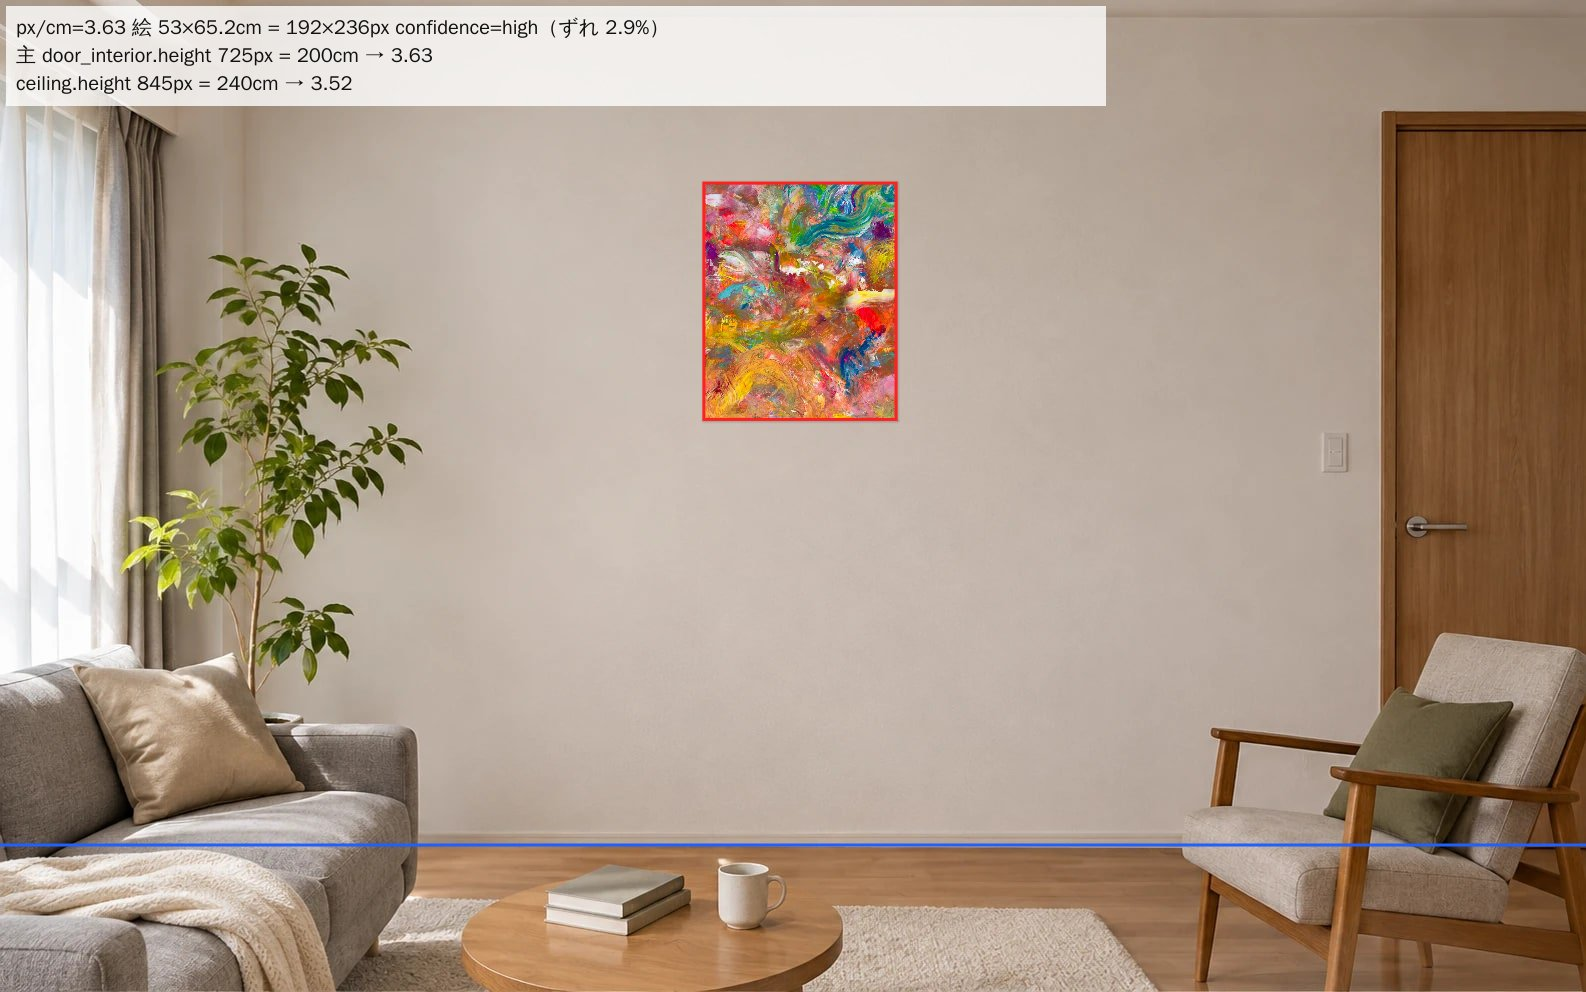
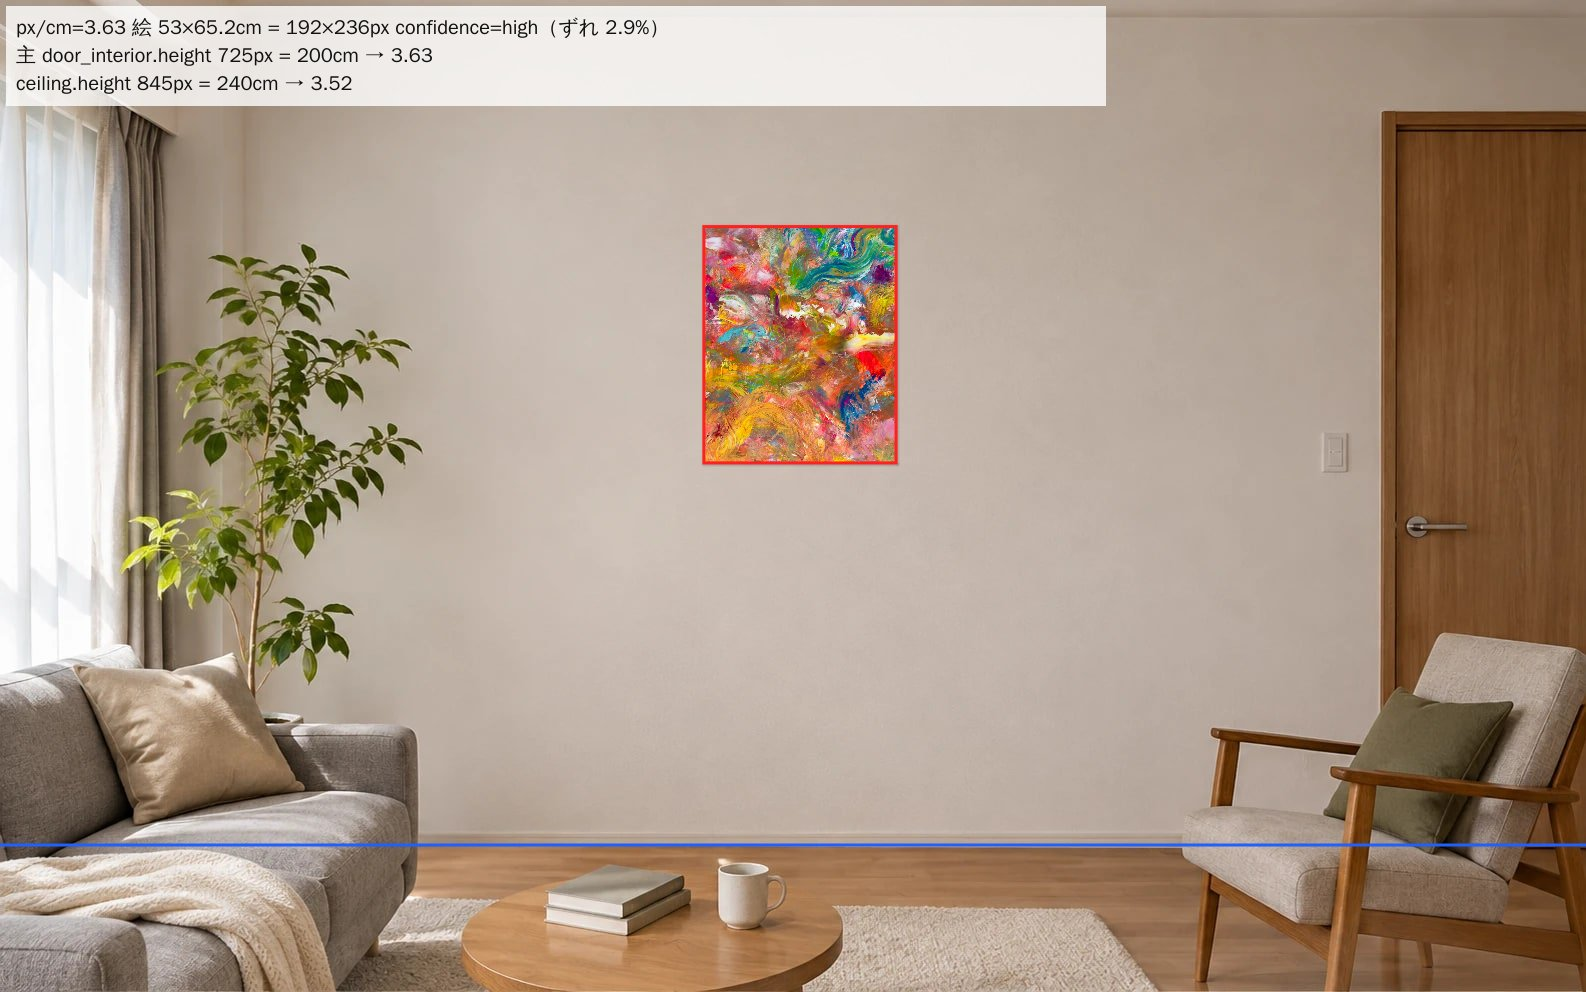
日本の住宅での飾る場所と高さを調査（docs/PLACEMENT.md）。掛ける高さを 145 / 138 / 家具の上 +20cm に、ドアの規格を確認、飾る場所の実例プロンプトを追加
Claude-Session: https://claude.ai/code/session_01XUan4pssoFYGDFEPeyow14

Changed region(s): [[0.4325, 0.1562, 0.587, 0.4688]]

diff --git a/scripts/generate/rooms.js b/scripts/generate/rooms.js
@@ -81,7 +81,9 @@ export function paintingRectFromScale(def, sizeCm, imageWidthPx) {
   const pxPerCm = def.scale.px_per_cm * k;
   const w = sizeCm[0] * pxPerCm, h = sizeCm[1] * pxPerCm;
   const cx = def.hang.x_px * k;
-  const cy = def.hang.floor_y_px * k - def.hang.center_from_floor_cm * pxPerCm;
+  // 掛ける高さ：中心（立って見る壁 145cm など）か、下端（家具の上端 + 20cm）のどちらかで指定
+  const centerCm = def.hang.center_from_floor_cm ?? (def.hang.bottom_from_floor_cm + sizeCm[1] / 2);
+  const cy = def.hang.floor_y_px * k - centerCm * pxPerCm;
   const x0 = cx - w / 2, x1 = cx + w / 2, y0 = cy - h / 2, y1 = cy + h / 2;
   return [[x0, y0], [x1, y0], [x1, y1], [x0, y1]];
 }
@@ -173,7 +175,7 @@ export function compareSentence({ item, dim, ratio, cm }, { withCm = false, appr
 }
 
 // 部屋の文章：比較の一文、2 つ目の比較、部屋の説明、注記（ja / en）
-export function roomTexts({ references, table, sizeCm, confidence, wallWidthCm, centerFromFloorCm }) {
+export function roomTexts({ references, table, sizeCm, confidence, wallWidthCm, centerFromFloorCm, aboveFurniture = false }) {
   const seen = new Set();
   const cands = [];
   for (const r of [...references].sort((a, b) => rankOf(a.ref.split('.')[0]) - rankOf(b.ref.split('.')[0]))) {
@@ -190,8 +192,12 @@ export function roomTexts({ references, table, sizeCm, confidence, wallWidthCm, 
   const hc = Math.round(centerFromFloorCm / 5) * 5;
   const seated = centerFromFloorCm < 140;
   const about = {
-    ja: `壁の幅は約 ${m} m。${seated ? '座ったときの目の高さ' : '目の高さ'}（床から約 ${hc} cm）に掛けています。`,
-    en: `The wall is about ${m} m wide. The painting hangs at ${seated ? 'seated eye level' : 'eye level'} (about ${hc} cm from the floor).`,
+    ja: aboveFurniture
+      ? `壁の幅は約 ${m} m。家具の上端から 20 cm ほど空けて掛けています（絵の中心は床から約 ${hc} cm）。`
+      : `壁の幅は約 ${m} m。${seated ? '座ったときの目の高さ' : '目の高さ'}（床から約 ${hc} cm）に掛けています。`,
+    en: aboveFurniture
+      ? `The wall is about ${m} m wide. The painting hangs about 20 cm above the furniture (center about ${hc} cm from the floor).`
+      : `The wall is about ${m} m wide. The painting hangs at ${seated ? 'seated eye level' : 'eye level'} (about ${hc} cm from the floor).`,
   };
   const note = {
     ja: '部屋は AI で作ったイメージで、寸法はだいたいこのくらい、という目安です。絵は実物の写真です。' + (low ? 'この部屋は縮尺の手がかりが不確かなので、特に大まかな目安です。' : ''),
@@ -283,7 +289,7 @@ export async function compositeRooms({ root, work, paintingPath, outDir }) {
 
     // 顧客向けの文章（ja / en。他の言語は index.js で翻訳キャッシュから）
     const texts = def.references?.length
-      ? roomTexts({ references: def.references, table, sizeCm: work.size_cm, confidence: sc.confidence, wallWidthCm, centerFromFloorCm: def.hang.center_from_floor_cm })
+      ? roomTexts({ references: def.references, table, sizeCm: work.size_cm, confidence: sc.confidence, wallWidthCm, centerFromFloorCm: def.hang.center_from_floor_cm ?? Math.round(def.hang.bottom_from_floor_cm + work.size_cm[1] / 2), aboveFurniture: def.hang.bottom_from_floor_cm != null })
       : { compare: null, compare2: null, about: null, note: null, primary_ref: null };
 
     results.push({

diff --git a/docs/PLACEMENT.md b/docs/PLACEMENT.md
@@ -1,0 +1,59 @@
+# 絵はどこに飾られるか（日本の住宅、調べたこと）V0
+
+2026-11-04、作家の指示「絵を買った人がどこに置くかをちゃんと考える。日本と仮定する」で調べたもの。部屋の画像の場面と、掛ける高さの根拠にする。
+
+## 1. 建具と部屋の寸法（縮尺の基準）
+
+| 物 | 一般的な寸法 | 根拠 |
+| --- | --- | --- |
+| 室内ドア（標準） | 枠の高さ 2,023 mm、扉本体 1,983 mm。「一般的なドアは高さ 2 m ほど」 | LIXIL ラシッサ S の寸法表（[販売店の掲載](https://item.rakuten.co.jp/kenkuru-shop/lssshd-001/)、[TA の一覧](https://www.rakuten.ne.jp/gold/auc-dream-diy/size_table/ta/ta-door-dsth_1.html)）、[LIXIL のハイドア解説](https://www.lixil.co.jp/lineup/livingroom_bedroom/s/livingdeli/living/6974/) |
+| 室内ドア（ハイドア） | 2,400 mm（天井まで） | [LIXIL ラフィス](https://www.lixil.co.jp/lineup/livingroom_bedroom/raffis/variation/) |
+| 室内ドア（古い住宅） | 1,800〜1,900 mm | オーダー範囲が H1740〜2425（[販売店](https://www.dreamotasuke.co.jp/c/lasissa/lasissa-c2/ls01-c2/ls01a-c2/ls01oak-c2/ls01ak-lga-order)）。古い物件に多い |
+| 天井高（マンション） | 2,400〜2,500 mm が平均。中古は 2,300 もある | [東急リバブル](https://www.livable.co.jp/l-note/?p=34419)、[ノムコム](https://www.nomu.com/mansion/library/trend/ai/ai27.html) |
+| 天井高（戸建て） | 2,400 mm が標準、2,600 も | 掲示板の体験談（[e-mansion](https://www.e-mansion.co.jp/bbs/thread/595074/)） |
+
+結論：**室内ドア 200 cm は、2000 年代以降の住宅では妥当**（枠で 202 cm）。古い住宅なら 180〜190 cm。部屋の画像は新しめの内装なので 200 cm を基準にする。`rooms/REFERENCES.json` は 200 のまま、`door_interior_old`（185 cm）を足して古い内装の部屋で使えるようにする。
+
+## 2. 掛ける高さ（日本の目安）
+
+- **絵の中心を床から 145 cm** が日本で広く言われる目安（「145 の法則」）。立ったときの目線の高さ。記事により 145〜150、145〜155 とも（[Re:CENO](https://www.receno.com/feature/art/decorate.php)、[trill](https://trilltrill.jp/articles/4700914)、[kajikissa](https://kajikissa.com/art/)）
+- **座って見る場所**（ソファの前、食卓、寝室）は少し低く、**中心 135〜140 cm**（[poppy quest](https://poppy-quest.com/2026/07/03/office-art-hang-guide/)）
+- **家具の上に掛けるとき**は、家具の上端から **15〜25 cm** 空ける（こぶし 1〜2 個）（[Re:CENO](https://www.receno.com/feature/art/decorate.php)）
+- **リビングの壁**では、絵の幅は壁幅の 7〜8 割に収まるのが目安。余白が大事（[izutsuya](https://izutsuya.art/)）
+
+→ 変更：掛ける高さの既定を 150 → **145 cm**。座って見る部屋（ソファの前、寝室、食卓）は **138 cm**。机や棚の上は「家具の上端 + 20 cm が絵の下端」で決める。
+
+## 3. どこに飾るか（日本の住宅で実際に多い場所）
+
+購入者の統計は見つからなかった（画廊や販売店のガイドが中心）。ガイドに共通する場所と、向く大きさ：
+
+| 場所 | 誰が、いつ見るか | 向く大きさ | 備考 |
+| --- | --- | --- | --- |
+| **玄関**（靴箱の上、正面の壁） | 帰宅時、来客の出迎え。立って、短く | 小〜中（F0〜F8、長辺 18〜45 cm） | 「出迎えの場、小〜中の明るい作品」（[from-artist](https://from-artist.com/en/blogs/)）。玄関は日本の住宅で最も「絵を飾る場所」として挙がる |
+| **リビングのソファの上の壁** | 家族と来客。座って、長く | 中〜大（F8〜F30、長辺 45〜90 cm） | ソファの幅との釣り合い。「壁幅の 7〜8 割まで」 |
+| **サイドボード・テレビ台の上** | 立っても座っても | 小〜中 | 家具の上端から 15〜25 cm 空ける |
+| **寝室（ベッドの横、ヘッドボードの上）** | ひとり。寝る前、起きたとき | 小〜中（F3〜F10） | 落ち着いた色。横になって見るので低め |
+| **廊下の突き当たり、階段** | 通りすがり。立って | 小（F0〜F6）を 1〜3 点 | 細長い壁。小品の定位置 |
+| **ダイニングの壁** | 食事のとき。座って | 小〜中 | 中心 135〜140 |
+| **書斎・ワークスペースの机の上** | ひとり。座って | 小（F0〜F4） | 机の上端 + 20 cm |
+| **床の間**（和室） | 来客 | 小〜中、掛け軸の代わり | 和室がある家では今も現役 |
+| **一人暮らしのワンルーム** | ひとり。机の上、ベッド脇、棚の上、玄関 | 小（F0〜F4） | 壁が少なく、家具の上が主な場所 |
+
+多くの購入者は「どこに飾るかを決めてから買う」（[いつき美術画廊](https://itsukiart.com/column/7/)）。だから「部屋で見る」は**買う前に、自分の家のその場所を思い浮かべる**ための道具。場所の名前（玄関、ソファの上、ベッド脇）で見せるのが正しい。
+
+## 4. 部屋の画像の場面を、飾る場所に合わせて組み直す
+
+今ある画像（リビング 4、玄関 1、一人暮らし 5）は「空いた壁」で、実際の飾る場所に近いのは「ソファの向かいの壁」「机の上」「ベッド脇」。足りないのは、日本で最も多い **玄関の靴箱の上**、**ソファの上の壁（座って見る）**、**サイドボードの上**、**廊下の突き当たり**、**床の間**。プロンプトを `rooms/PROMPTS.md` の「飾る場所の実例」に追加する。
+
+作品の大きさで場面を選ぶ：
+
+| 作品 | 広い家 | 一人暮らし |
+| --- | --- | --- |
+| F15（53 × 65）以上 | ソファの上の壁、ダイニングの壁 | 机の上、ベッド脇（存在感が出る） |
+| F4〜F10 | 玄関の靴箱の上、サイドボードの上、寝室 | 机の上、棚の上 |
+| F0〜F3（手のひら大） | 廊下、玄関の棚、床の間 | 棚の上、キッチン、玄関 |
+
+## 5. 縮尺と高さに反映すること
+
+- `hang.center_from_floor_cm`：立って見る壁 145、座って見る場所 138、家具の上は「家具の上端 + 20 cm = 絵の下端」から中心を計算（`hang.above_furniture_top_cm` を足し、`generate` が中心を計算）
+- `rooms/REFERENCES.json`：`door_interior` 200（枠 202）、`door_interior_old` 185、`ceiling` 240、`ceiling_old` 230、`sofa_2seat` 高さ 80 / 幅 160、`shoe_cabinet` 高さ 90、`sideboard` 高さ 80、`dining_table` 高さ 72、`bed_single` 幅 100 / マットレス上端 50、`headboard` 高さ 90

diff --git a/rooms/PROMPTS.md b/rooms/PROMPTS.md
@@ -40,6 +40,22 @@ A blank, empty wall with clear space for one framed painting about 65 cm tall an
 
 `rooms/<name>.json` の `suits_cm` を `[15, 45]` にしておくと、小さな作品のときだけ自動で使われる。
 
+## 飾る場所の実例（日本の住宅で実際に絵が掛かる場所。`docs/PLACEMENT.md` 3 節）
+
+これまでの画像は「空いた壁」。次は「絵が実際に掛かる場所」を撮る。家具が壁に接していて、その上に絵を置ける構図。カメラは正面、目の高さ。
+
+| # | name | 場所 | 向く作品 | プロンプト（英語） |
+| --- | --- | --- | --- | --- |
+| 16 | entrance-shoe-cabinet | 玄関の靴箱の上 | F0〜F8 | `The entrance of a Japanese apartment. A low white shoe cabinet (about 90 cm tall) against a plain wall, a small plant and a tray of keys on top, tiled floor, the front door at the side. Camera straight-on, eye level. Empty wall above the cabinet for a small painting.` + 共通 |
+| 17 | living-sofa-wall | ソファの上の壁 | F8〜F30 | `A living room with a grey three-seat sofa (about 180 cm wide) against a plain white wall, a floor lamp, a wooden coffee table. Camera straight-on from across the room, eye level. Empty wall above the sofa for a painting.` + 共通 |
+| 18 | living-sideboard | サイドボードの上 | F3〜F10 | `A living room wall with a low wooden sideboard (about 80 cm tall, 160 cm wide), a vase and a few books on top, plain wall above. Camera straight-on, eye level. Empty wall above the sideboard for a painting.` + 共通 |
+| 19 | hallway-end | 廊下の突き当たり | F0〜F6 | `A narrow hallway in a Japanese apartment, wooden floor, doors on the left, a plain wall at the end lit by a small ceiling light. Camera straight down the hallway, eye level. Empty wall at the end for a small painting.` + 共通 |
+| 20 | bedroom-headboard | 寝室のヘッドボードの上 | F3〜F10 | `A bedroom with a double bed, a wooden headboard (about 90 cm tall) against a plain wall, linen sheets, two bedside lamps. Camera straight-on from the foot of the bed, eye level. Empty wall above the headboard for a painting.` + 共通 |
+| 21 | dining-wall | ダイニングの壁 | F4〜F15 | `A dining area with a wooden table (72 cm tall) and four chairs against a plain wall, a pendant lamp, daylight from the side. Camera straight-on, eye level. Empty wall above the table for a painting.` + 共通 |
+| 22 | tokonoma | 床の間 | F0〜F6 | `A Japanese tatami room with a tokonoma alcove, plain plaster wall inside the alcove, a small ikebana arrangement on the alcove floor, soft light from shoji screens. Camera straight-on, eye level. Empty alcove wall for a small painting.` + 共通 |
+
+JSON には、家具の上端（`hang.furniture_top_y_px`）と家具の実寸（`references`）を書く。絵は家具の上端から 20 cm 空けて掛かる。
+
 ## 受け取ったあとの手順
 
 1. `rooms/<name>.jpg` として保存（横 1600px 以上）

diff --git a/docs/LOG.md b/docs/LOG.md
@@ -30,6 +30,8 @@
 - 作家の決定で「部屋で見る」を 2 種類（一人暮らしの部屋、広い家のリビング）× 2 枚に。帯のキャプションは「種類 ─ 場所」、比較の一文は拡大表示だけ。F15 を一人暮らしの机の上とベッド脇にも置いた（小さい部屋では壁の 4 割を占め、大きさが伝わる）。Sonnet 実装、Fable レビュー（ラベルの重複を直し、机の部屋の交差確認を手前のノート PC から壁際のランプに変えて信頼度を中に）
 - ドアの高さ 200 cm への疑問：新しい住宅では 2,000 mm が標準、古い住宅は 1,800〜1,900 mm。185 cm なら絵は 8% 大きいのが正しいが、見た目では区別がつかない。画像を作り直しても不確かさは消えない。人（身長 160 cm）が写った版を種類ごとに 1 枚足す案を提案中
 
+- 作家の指示「絵を買った人がどこに置くかを考える。日本と仮定」で調べて `docs/PLACEMENT.md` に。室内ドアは LIXIL 標準で枠 2,023 mm（200 cm は妥当。古い住宅は 180〜190）、天井 240〜250。掛ける高さは日本の目安「145 の法則」、座って見る場所は 135〜140、家具の上は上端 + 15〜25 cm。飾る場所は玄関・ソファの上・サイドボードの上・寝室・廊下・床の間・一人暮らしは家具の上。部屋 JSON の高さを 145 / 138 / 家具の上端 + 20 に変更し、`generate` が下端指定（`bottom_from_floor_cm`）にも対応。飾る場所の実例 7 場面のプロンプトを追加
+
 **決めた**
 - 駆動は「足し続ける」のではなく「目標へ寄せる」（最初の実装は速度が溜まって絵が流れ出し、塗りつぶされた）
 - 大きなうねりは中くらいの大きさで弱く（周波数 4、0.18）。原画への回帰は 0.005。流れ続けると 90 秒で色が混ざって茶色くなるので、`restore` / `drive` / `speed` は作家が詰めるダイヤルとして `overrides` に

diff --git a/docs/DECISIONS.md b/docs/DECISIONS.md
@@ -59,6 +59,9 @@
 
 | 43 | 部屋で見るは 2 種類（一人暮らしの部屋、広い家のリビング）× 2 枚。帯のキャプションは部屋の種類と場所。比較の一文は拡大表示の中だけ。大きめの作品も一人暮らしの部屋に置く | 作家「ドアの比較では伝わらない。2 枚ずつで十分」「一人暮らしの部屋でも F15 を見たい」 | 11-04 |
 
+| 44 | 掛ける高さは日本の目安：立って見る壁は中心 145 cm、座って見る場所は 138 cm、家具の上は上端 + 20 cm が下端。室内ドアは 200 cm（LIXIL 標準枠 2,023 mm）を基準に、古い住宅用に 185 cm も用意 | `docs/PLACEMENT.md` の調査 | 11-04 |
+| 45 | 部屋の場面は「空いた壁」から「実際に絵が掛かる場所」（玄関の靴箱の上、ソファの上、サイドボードの上、廊下の突き当たり、寝室のヘッドボード上、ダイニング、床の間）へ。作品の大きさで場面を選ぶ | 購入者は飾る場所を決めてから買う | 11-04 |
+
 ## 未決定（期限つき）
 
 | # | 問い | 決め方 | 期限 |
